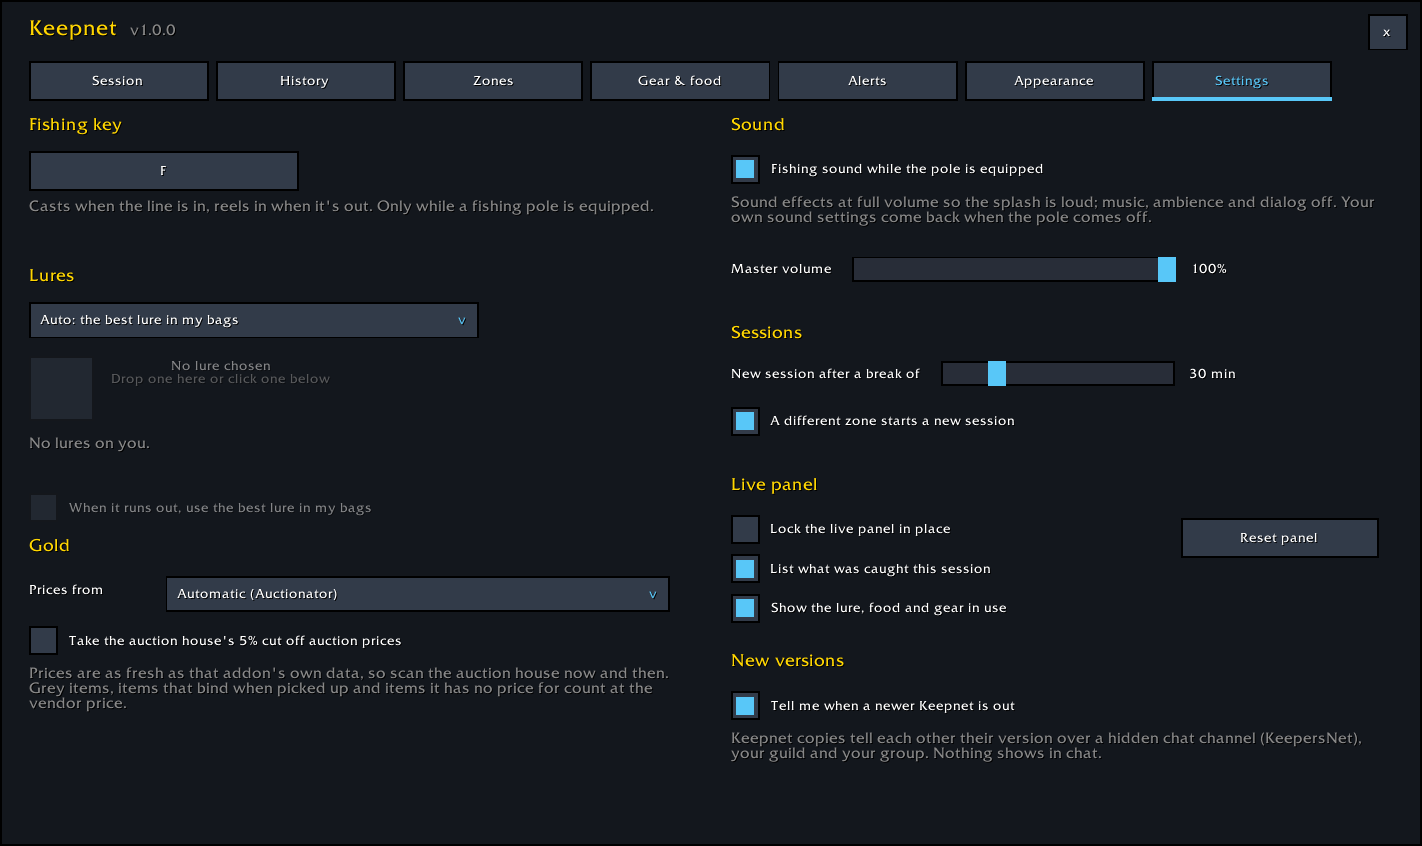
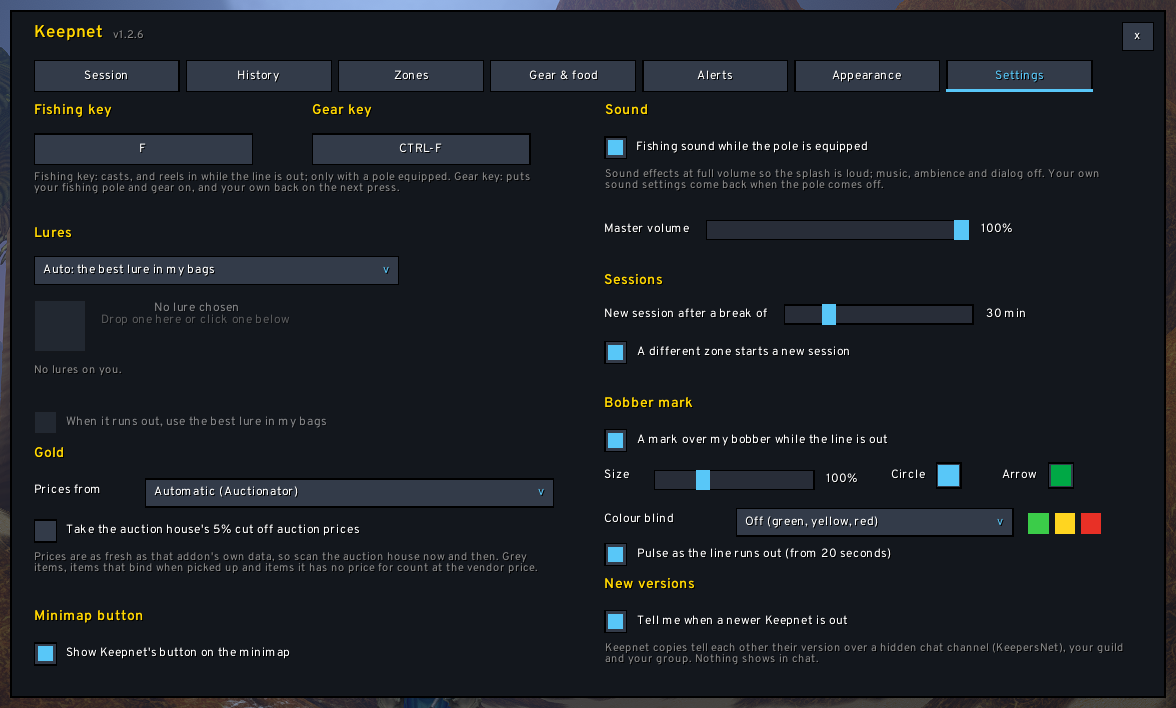
1.2.7: more room above New versions on the Settings tab; new Settings and Gear & food pictures (the development-copy note blanked)

diff --git a/DEVLOG.md b/DEVLOG.md
@@ -4,6 +4,28 @@ Newest state first. Read this before working on the addon.
 
 ## RESUME HERE
 
+**Pictures under way (2026-11-27, from about 17:20; the owner: "let's do media").**
+- The list agreed:
+  1. the bobber mark close up at green, yellow and red (joined into one picture);
+  2. the mark with the interface hidden and the panel's strip (replaces `12-interface-hidden`);
+  3. a colour blind set on the water (optional);
+  4. Settings (redo);
+  5. Gear & food with "Lures from vendors" (redo);
+  6. optional: Appearance, the minimap button, the live panel at v1.2.x.
+- **Done so far** (taken in the Keepnet theme, cut with `tools\cut.ps1`, from captures in
+  `media\raw`):
+  - `media\screens\08-settings.png` (1.2.6; the New versions note's last sentence "This is a
+    development copy: it listens and never announces." painted over with the window's own
+    background 19,23,29, at the owner's word "blank it");
+  - `05-gear-food.png` (Bright Baubles, keep 20, floor 4 g, attractors on).
+  - No names in either.
+- Not uploaded yet: the gallery goes up in one batch at the end; delete the old pictures and
+  put the order back.
+
+**1.2.7 (same time): 10 more above "New versions" on the Settings tab** (the owner: "nudge the
+spacing"; the pulse checkbox sat right on its heading). Installed as the development copy
+(/reload). The Settings picture above shows 1.2.6's spacing; retake it if the gap matters.
+
 **1.2.6 (2026-11-27, about 17:15): the game's cog under the mark faded. Installed as the
 development copy (/reload); passes its offline tests (`test_bobber_mark.lua` 124 checks);
 committed and tagged; NOT uploaded (1.2.5 is the last on CurseForge). The owner: "we will

diff --git a/CHANGELOG.md b/CHANGELOG.md
@@ -3,6 +3,11 @@
 What changed for players, newest first. The section for a version becomes the changelog of
 its file on CurseForge (`tools\release.py --upload`).
 
+## 1.2.7
+
+- A little more room on the Settings tab between the bobber mark's pulse option and "New
+  versions".
+
 ## 1.2.6
 
 - The game's own small cog icon no longer shows under the bobber mark: Keepnet fades it
